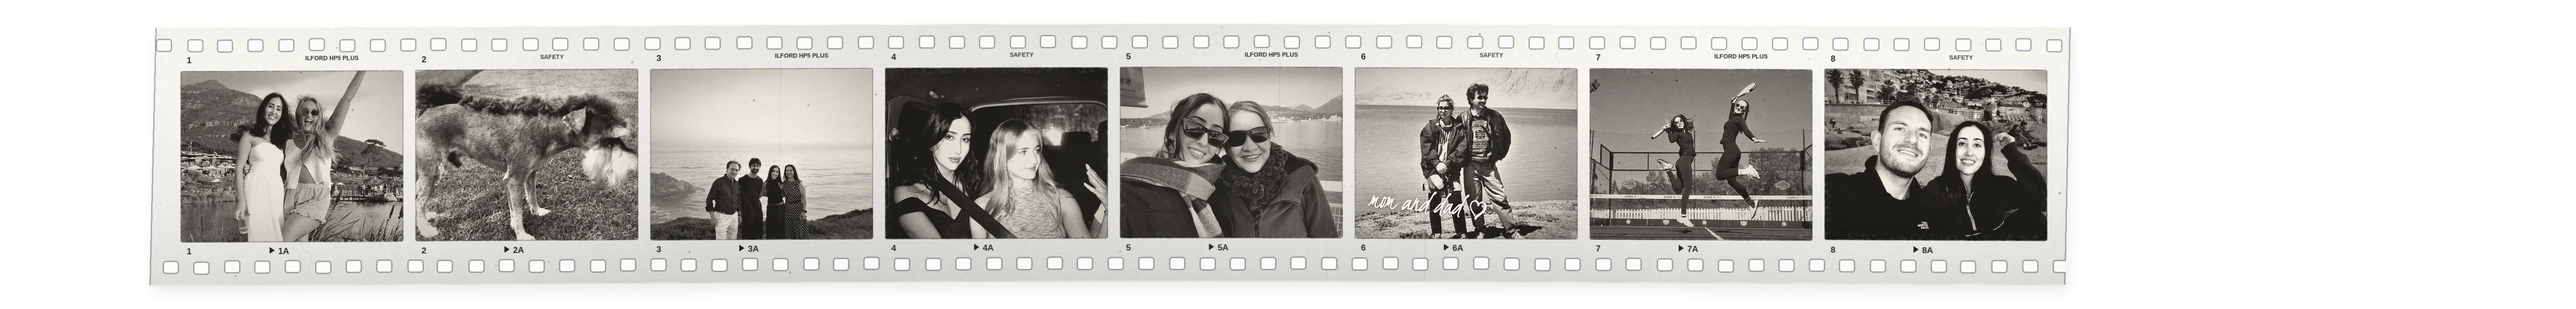
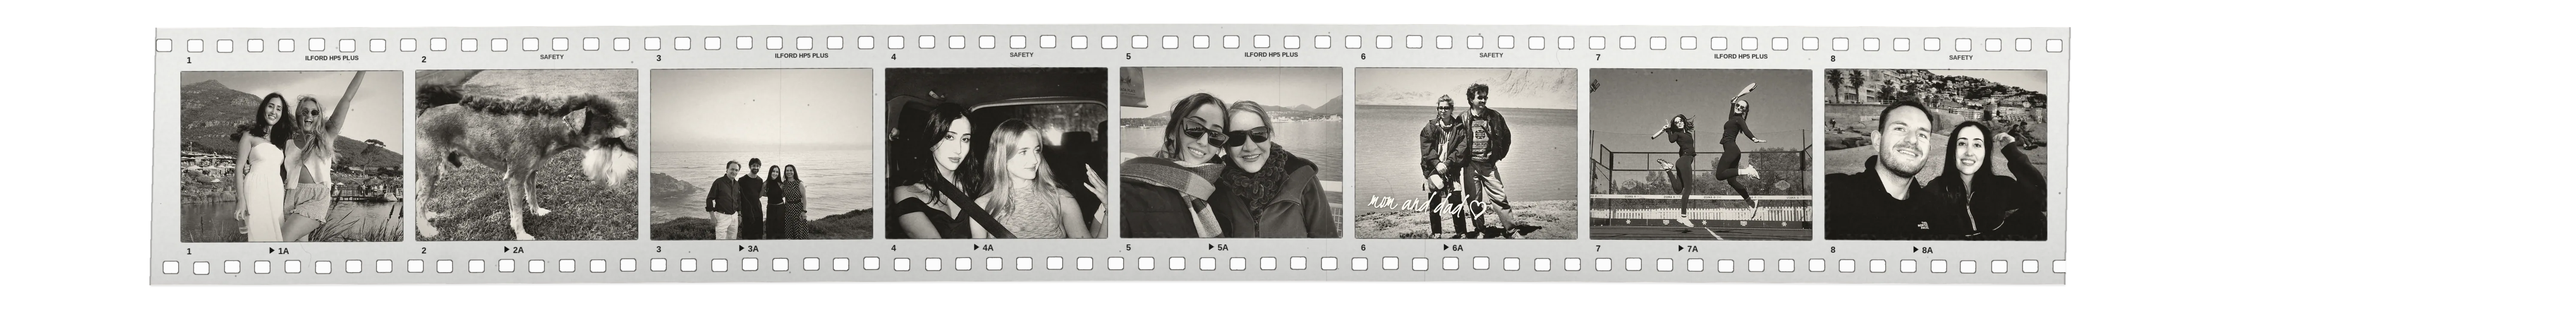
Restore wide hero photo, match page headings, film strips redrawn to look like a scan of real film
Claude-Session: https://claude.ai/code/session_019cHY5kFv81n3dVZ9DcXyGk

diff --git a/index.html b/index.html
@@ -21,12 +21,11 @@ header nav{display:flex;gap:2.6rem}header a[aria-current]{text-decoration:underl
 .spread{position:relative;min-height:100svh;overflow:hidden}
 
 /* 0: quiet feature page: headline aligned to the top of a photographic plate, the standfirst to its foot */
-.s0{--ph:min(73svh,48vw)}
 .s0 h1{position:absolute;left:6vw;top:15vh;margin:0;z-index:3;color:var(--paper);mix-blend-mode:difference;font:400 clamp(3.2rem,9.6vw,11.5rem)/.94 var(--serif);letter-spacing:-.028em}
 .s0 h1 .ln:nth-child(2){padding-left:19vw}
 .s0 .stand{position:absolute;left:6vw;bottom:15vh;width:min(27rem,31vw);font:italic 400 clamp(1.3rem,1.75vw,1.8rem)/1.34 var(--serif);text-wrap:pretty;z-index:3}
-.s0 figure{position:absolute;left:54vw;top:12vh;width:40vw;height:var(--ph);z-index:1}
-.s0 figure img{object-position:60% 50%}
+.s0 figure{position:absolute;left:52vw;top:12vh;width:42vw;aspect-ratio:4/3;z-index:1}
+.s0 figure img{object-position:50% 50%}
 .s0 .foot{bottom:6vh;left:6vw}
 
 /* 1: the sentence set small and wide; a larger photo with "about" written across its edge */
@@ -67,7 +66,7 @@ header{position:absolute;color:inherit;mix-blend-mode:normal;padding:1.2rem 16px
 .s3 .para{margin:1.2rem 0 2.5rem;font-size:1.25rem}
 .s4{padding:4rem 0 3rem}.s4 .hi{position:relative;left:auto;top:auto;translate:none;width:fit-content;margin:0 auto;font-size:4.6rem}.s4 .links{margin-top:3rem}.s4 .pgs{margin-top:1.6rem}.s4 .fine{margin-top:1.6rem}
 }
-@media (max-width:760px){.s0{min-height:auto;padding:8.5rem 16px 0}.s0 h1,.s0 .stand,.s0 figure{position:static;width:auto;translate:none}.s0 h1{font-size:15vw;mix-blend-mode:normal;color:var(--ink)}.s0 h1 .ln:nth-child(2){padding-left:12vw}.s0 figure{width:100%;height:auto;aspect-ratio:4/3;margin:2.4rem 0 0}.s0 .stand{margin-top:1.6rem;font-size:1.4rem;max-width:20rem}.s0 .foot{margin-top:2.5rem}
+@media (max-width:760px){.s0{min-height:auto;padding:8.5rem 16px 0}.s0 h1,.s0 .stand,.s0 figure{position:static;width:auto;translate:none}.s0 h1{font-size:15vw;mix-blend-mode:normal;color:var(--ink)}.s0 h1 .ln:nth-child(2){padding-left:12vw}.s0 figure{width:100%;margin:2.4rem 0 0}.s0 .stand{margin-top:1.6rem;font-size:1.4rem;max-width:20rem}.s0 .foot{margin-top:2.5rem}
 }
 @media (max-width:760px){
 .s1{padding:8rem 16px 4rem}.s1 figure{height:auto;aspect-ratio:4/3;width:calc(100% + 32px);margin:0 -16px}.s1 .hi{position:relative;left:auto;top:auto;order:2;margin:-6.6rem 0 0 4%;font-size:5rem;z-index:2}.s1 .say{order:3;width:auto;margin:3rem 0 0}.s1 .foot{order:4}
@@ -132,7 +131,7 @@ header nav a{background:linear-gradient(currentColor,currentColor) 0 100%/0 1px 
 .s2 .kf.in img{filter:none;transform:none;transition:filter 1.5s .1s var(--e),transform 1.3s .1s var(--e)}
 @media (prefers-reduced-motion:reduce){.card .note,.s2 .verdict .w{clip-path:none!important}.revealed .card[data-lie]{animation:none}.s2 .kf img{filter:none;transform:none}}
 /* crop marks around the opening plate */
-.s0 .marks{position:absolute;left:calc(54vw - 26px);top:calc(12vh - 26px);width:calc(40vw + 52px);aspect-ratio:auto;height:calc(var(--ph) + 52px);z-index:2;pointer-events:none;opacity:0;transition:opacity .8s .8s;--k:rgba(28,27,25,.5);background:
+.s0 .marks{position:absolute;left:calc(52vw - 26px);top:calc(12vh - 26px);width:calc(42vw + 52px);aspect-ratio:auto;height:calc(42vw*3/4 + 52px);z-index:2;pointer-events:none;opacity:0;transition:opacity .8s .8s;--k:rgba(28,27,25,.5);background:
 linear-gradient(var(--k),var(--k)) 0 26px/16px 1px no-repeat,linear-gradient(var(--k),var(--k)) 26px 0/1px 16px no-repeat,
 linear-gradient(var(--k),var(--k)) 100% 26px/16px 1px no-repeat,linear-gradient(var(--k),var(--k)) calc(100% - 26px) 0/1px 16px no-repeat,
 linear-gradient(var(--k),var(--k)) 0 calc(100% - 26px)/16px 1px no-repeat,linear-gradient(var(--k),var(--k)) 26px 100%/1px 16px no-repeat,

diff --git a/assets/inner.css b/assets/inner.css
@@ -19,7 +19,7 @@ header a[aria-current]{background:none}
 .pt .folio{position:absolute;left:6vw;top:13vh}
 .pt h1{font:400 clamp(3.2rem,10vw,11.5rem)/.94 var(--serif);letter-spacing:-.028em}
 .pt h1.sm{font-size:clamp(2.8rem,7vw,8rem)}
-.pt h1.long{font-size:clamp(3rem,7.4vw,8.8rem)}
+.pt h1.long{font-size:clamp(2.8rem,7vw,8rem)}
 .pt .stand{margin-top:5vh;max-width:30rem;font:italic 400 clamp(1.15rem,1.5vw,1.5rem)/1.38 var(--serif)}
 /* motion: lines rise, plates open, rows settle, script is written */
 .js .ln{display:block;overflow:hidden;padding-bottom:.24em;margin-bottom:-.24em}.js .ln>span{display:block;transform:translateY(108%)}
@@ -145,7 +145,7 @@ html:not(.js) .chart .ln{stroke-dashoffset:0}html:not(.js) .chart circle{opacity
 @media (prefers-reduced-motion:reduce){.lb img.sw{animation:none}}
 @media (max-width:760px){
 header{position:absolute;color:inherit;mix-blend-mode:normal;padding:1.4rem 16px;flex-direction:column;gap:.6rem}header.cap{font-size:.66rem}header nav{gap:.95rem;flex-wrap:nowrap}
-.pt{padding:9rem 16px 3rem}.pt .folio{position:static;margin-bottom:1.4rem}.pt h1{font-size:15vw}.pt h1.long{font-size:12.5vw}.pt h1.sm{font-size:11vw}
+.pt{padding:9rem 16px 3rem}.pt .folio{position:static;margin-bottom:1.4rem}.pt h1{font-size:15vw}.pt h1.long{font-size:11vw}.pt h1.sm{font-size:11vw}
 .toc{margin:0 16px 5rem}.toc a{grid-template-columns:2.4rem 1fr}.toc .k{grid-column:2}
 .proj{margin:0 16px;padding:3.2rem 0 4rem;grid-template-columns:1fr}.proj .pm{margin-bottom:1.4rem;grid-column:1;grid-row:auto}.proj h2{grid-column:1;grid-row:auto;max-width:none}.proj .body{grid-column:1;margin-top:1.4rem}.proj .body+.body{margin-top:1.1rem}.proj .tr{grid-column:1}.proj .vid{grid-column:1;margin-top:2rem}
 .prail{margin:0 16px}.stage{position:static;height:auto;overflow:visible;margin:0}.track{position:static;height:auto;display:block;padding:0;transform:none!important}

diff --git a/work.html b/work.html
@@ -19,7 +19,7 @@
 <main id="top">
   <section class="pt">
   <p class="folio cap mu">02</p>
-  <h1 aria-label="Things I&rsquo;ve made"><span class="ln" aria-hidden="true"><span>Things I&rsquo;ve made</span></span></h1>
+  <h1 class="sm" aria-label="Things I&rsquo;ve made"><span class="ln" aria-hidden="true"><span>Things I&rsquo;ve made</span></span></h1>
   <p class="stand fd">Some things I&rsquo;ve worked on, some things I&rsquo;ve made for fun.</p>
   </section>
   <ol class="toc stag">
